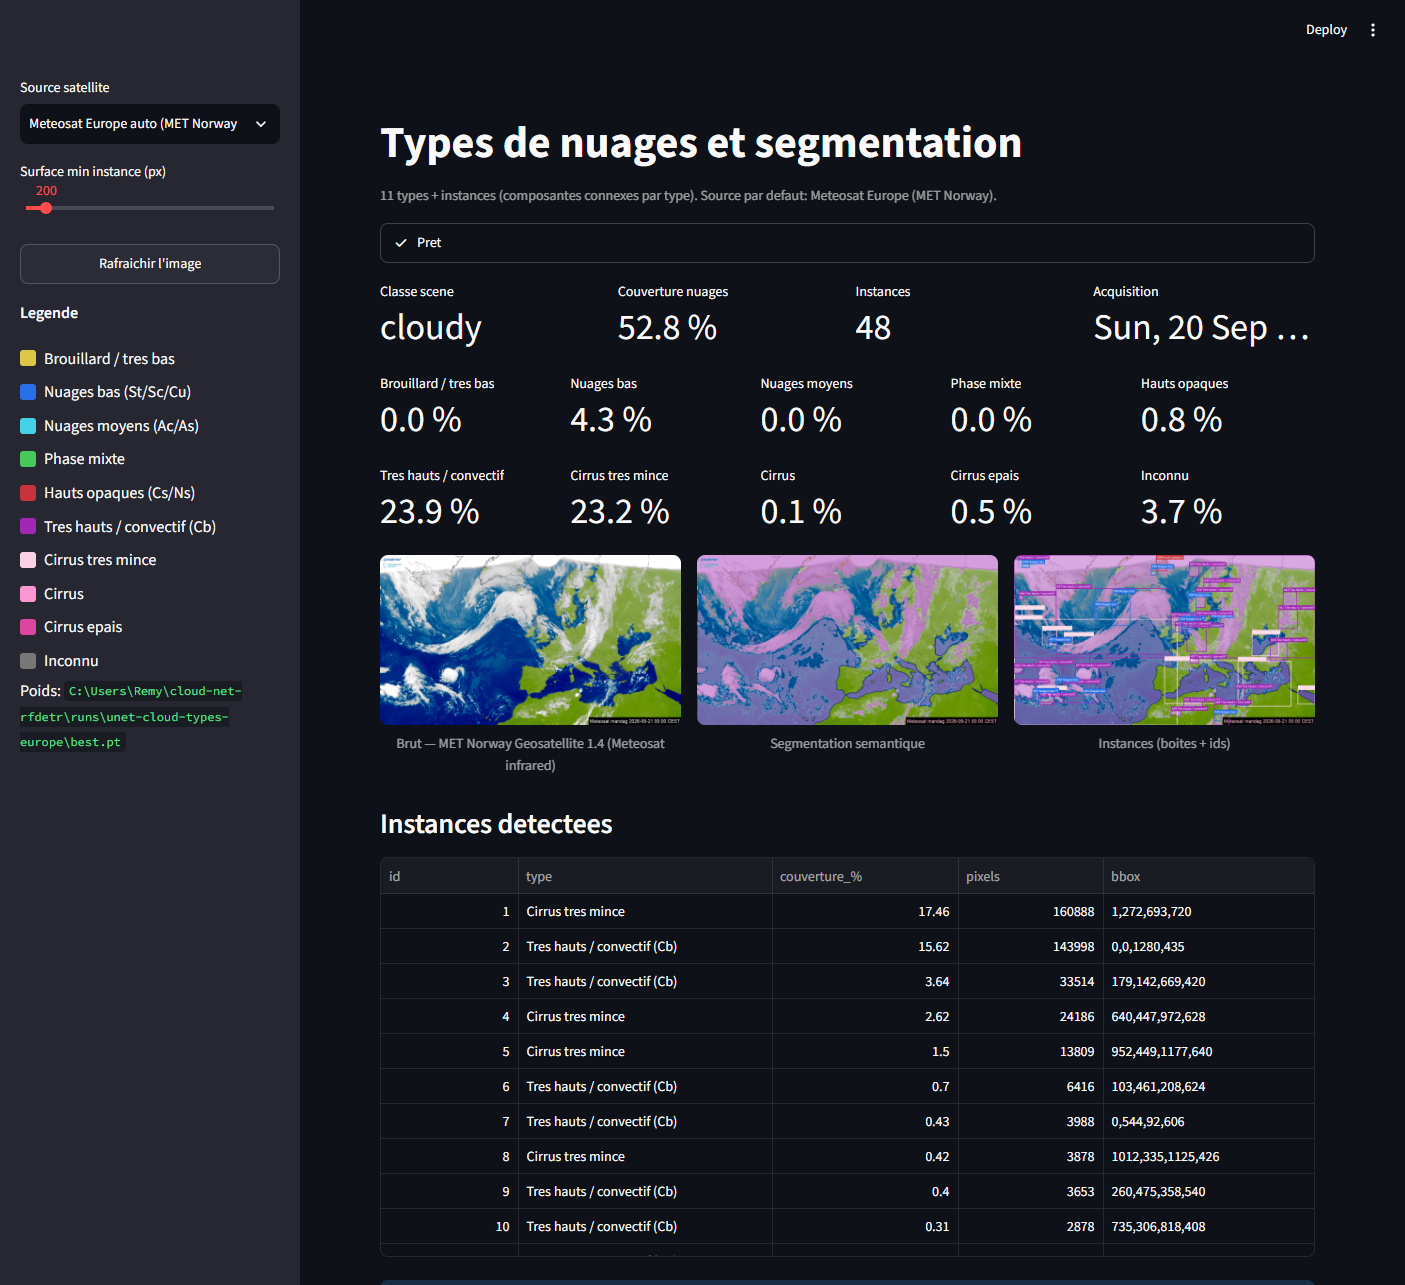
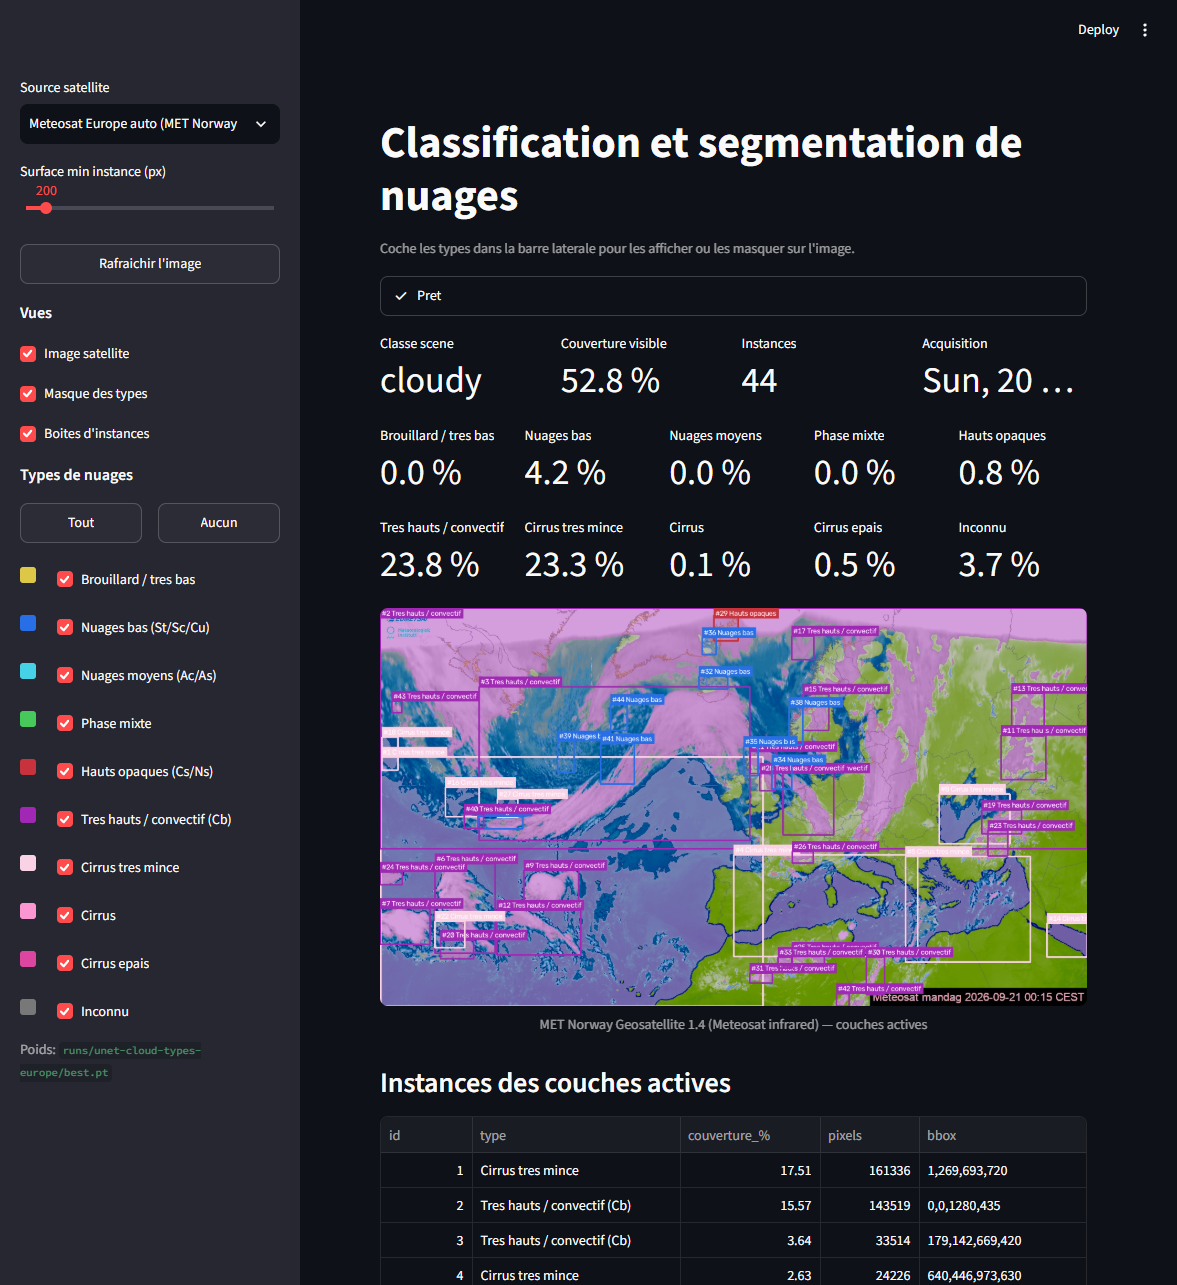
Publier le nouveau nom du projet et retirer le chemin local du README.

diff --git a/app/streamlit_app.py b/app/streamlit_app.py
@@ -1,4 +1,4 @@
-"""Dashboard live: types de nuages + segmentation sémantique."""
+"""Dashboard live: types de nuages + couches activables."""
 
 from __future__ import annotations
 
@@ -13,16 +13,16 @@ import numpy as np
 import streamlit as st
 from PIL import Image
 
-from src.cloud_types import CLASSES, overlay_types
-from src.infer_types import legend_rows, load_type_model, run_type_inference
+from src.cloud_types import CLASSES, class_fractions, cloud_fraction, filter_mask, overlay_types
+from src.infer_types import load_type_model, run_type_inference
 from src.ingest.sources import SOURCES, fetch_latest
-from src.instances import annotate_instances, instances_table
+from src.instances import draw_instance_boxes, instances_table, mask_to_instances
+from src.scene import classify_fraction
 
-st.set_page_config(page_title="Types de nuages live", layout="wide")
+st.set_page_config(page_title="U-Net Cloud Classification and Segmentation RT", layout="wide")
 
 
 def _display_rgb(arr: np.ndarray) -> np.ndarray:
-    """Contraste pour l'affichage (l'inference garde l'image brute)."""
     x = np.asarray(arr, dtype=np.float32)
     earth = x.max(axis=-1) > 8
     if not np.any(earth):
@@ -54,12 +54,38 @@ def cached_fetch(source: str) -> dict:
     }
 
 
+def _hex(rgb: tuple[int, int, int]) -> str:
+    return "#{:02x}{:02x}{:02x}".format(*rgb)
+
+
+def _layer_key(key: str) -> str:
+    return f"layer_{key}"
+
+
+def _init_layers() -> None:
+    for idx, (key, _label, _rgb) in CLASSES.items():
+        if idx != 0 and _layer_key(key) not in st.session_state:
+            st.session_state[_layer_key(key)] = True
+
+
+def _set_all_layers(value: bool) -> None:
+    for idx, (key, _label, _rgb) in CLASSES.items():
+        if idx != 0:
+            st.session_state[_layer_key(key)] = value
+
+
+def _rel_weights(path: str | Path) -> str:
+    raw = Path(path)
+    try:
+        return str(raw.resolve().relative_to(ROOT)).replace("\\", "/")
+    except ValueError:
+        return raw.name
+
+
 def main() -> None:
-    st.title("Types de nuages et segmentation")
-    st.caption(
-        "11 types + instances (composantes connexes par type). "
-        "Source par defaut: Meteosat Europe (MET Norway)."
-    )
+    _init_layers()
+    st.title("Classification et segmentation de nuages")
+    st.caption("Coche les types dans la barre laterale pour les afficher ou les masquer sur l'image.")
 
     source = st.sidebar.selectbox(
         "Source satellite",
@@ -70,72 +96,103 @@ def main() -> None:
     min_area = st.sidebar.slider("Surface min instance (px)", 32, 2000, 200, 32)
     if st.sidebar.button("Rafraichir l'image", use_container_width=True):
         cached_fetch.clear()
+        st.session_state.pop(f"infer_{source}", None)
         st.rerun()
-    st.sidebar.markdown("**Legende**")
-    for hexcol, label in legend_rows():
-        st.sidebar.markdown(
-            f"<div style='display:flex;align-items:center;gap:8px;margin:4px 0'>"
-            f"<span style='width:16px;height:16px;background:{hexcol};display:inline-block;border-radius:3px'></span>"
-            f"<span>{label}</span></div>",
+
+    st.sidebar.markdown("**Vues**")
+    show_base = st.sidebar.checkbox("Image satellite", value=True)
+    show_types = st.sidebar.checkbox("Masque des types", value=True)
+    show_boxes = st.sidebar.checkbox("Boites d'instances", value=True)
+
+    st.sidebar.markdown("**Types de nuages**")
+    b1, b2 = st.sidebar.columns(2)
+    b1.button("Tout", use_container_width=True, on_click=_set_all_layers, args=(True,))
+    b2.button("Aucun", use_container_width=True, on_click=_set_all_layers, args=(False,))
+
+    enabled: set[int] = set()
+    for idx, (key, label, rgb) in CLASSES.items():
+        if idx == 0:
+            continue
+        swatch, box = st.sidebar.columns([1, 8])
+        swatch.markdown(
+            f"<div style='width:16px;height:16px;margin-top:8px;border-radius:3px;background:{_hex(rgb)}'></div>",
             unsafe_allow_html=True,
         )
+        if box.checkbox(label, key=_layer_key(key)):
+            enabled.add(idx)
 
-    status = st.status("Chargement…", expanded=True)
-    try:
-        with status:
-            st.write("Modele")
-            try:
+    cache_key = f"infer_{source}"
+    if cache_key not in st.session_state:
+        try:
+            with st.status("Chargement image et inference…", expanded=True) as status:
+                payload = cached_fetch(source)
                 model, weights, device = get_type_model()
-            except FileNotFoundError as exc:
-                status.update(label="Checkpoint manquant", state="error")
-                st.error(str(exc))
-                return
-            st.sidebar.write(f"Poids: `{weights}`")
+                result = run_type_inference(
+                    Image.fromarray(payload["image"]),
+                    model=model,
+                    device=device,
+                    min_instance_area=32,
+                )
+                st.session_state[cache_key] = {
+                    "image": np.asarray(result["image"]),
+                    "mask": np.asarray(result["mask"]),
+                    "weights": weights,
+                    "payload": payload,
+                }
+                status.update(label="Pret", state="complete")
+        except FileNotFoundError as exc:
+            st.error(str(exc))
+            return
+        except Exception as exc:
+            st.error(f"Echec du flux {source}: {exc}")
+            return
+    bundle = st.session_state[cache_key]
 
-            st.write("Image satellite")
-            payload = cached_fetch(source)
-            image = Image.fromarray(payload["image"])
+    st.sidebar.caption(f"Poids: `{_rel_weights(bundle['weights'])}`")
+    payload = bundle["payload"]
+    shown = _display_rgb(bundle["image"])
+    visible = filter_mask(bundle["mask"], enabled)
+    instances = mask_to_instances(visible, min_area=min_area)
+    frac = cloud_fraction(visible)
+    fr = class_fractions(visible)
 
-            st.write("Segmentation des types")
-            result = run_type_inference(
-                image, model=model, device=device, min_instance_area=min_area
-            )
-        status.update(label="Pret", state="complete")
-    except Exception as exc:
-        status.update(label="Echec", state="error")
-        st.error(f"Echec du flux {source}: {exc}")
-        return
+    canvas = shown.copy()
+    if show_types and enabled:
+        canvas = overlay_types(canvas, visible, opacity=0.45)
+    if show_boxes:
+        canvas = draw_instance_boxes(canvas, instances)
+    if not show_base and (show_types or show_boxes):
+        # fond sombre pour ne garder que les couches
+        dark = np.zeros_like(shown)
+        if show_types and enabled:
+            dark = overlay_types(dark, visible, opacity=0.85)
+        if show_boxes:
+            dark = draw_instance_boxes(dark, instances)
+        canvas = dark
 
     c1, c2, c3, c4 = st.columns(4)
-    c1.metric("Classe scene", result["scene_class"])
-    c2.metric("Couverture nuages", f"{result['cloud_fraction'] * 100:.1f} %")
-    c3.metric("Instances", str(result["n_instances"]))
+    c1.metric("Classe scene", classify_fraction(frac))
+    c2.metric("Couverture visible", f"{frac * 100:.1f} %")
+    c3.metric("Instances", str(len(instances)))
     c4.metric("Acquisition", str(payload["captured_at"])[:25])
 
-    fr = result["fractions"]
     ids = [i for i in CLASSES if i != 0]
     for start in range(0, len(ids), 5):
         chunk = ids[start : start + 5]
         cols = st.columns(len(chunk))
         for col, idx in zip(cols, chunk):
             key, label, _ = CLASSES[idx]
-            col.metric(label.split(" (")[0], f"{fr.get(key, 0.0) * 100:.1f} %")
+            on = idx in enabled
+            col.metric(label.split(" (")[0], f"{fr.get(key, 0.0) * 100:.1f} %" if on else "off")
 
-    shown = _display_rgb(np.asarray(result["image"]))
-    semantic = overlay_types(shown, result["mask"])
-    inst = annotate_instances(shown, result["mask"], result["instances"])
+    st.image(canvas, caption=f"{payload['provider']} — couches actives", width="stretch")
 
-    left, mid, right = st.columns(3)
-    left.image(shown, caption=f"Brut — {payload['provider']}", width="stretch")
-    mid.image(semantic, caption="Segmentation semantique", width="stretch")
-    right.image(inst, caption="Instances (boites + ids)", width="stretch")
-
-    rows = instances_table(result["instances"])
+    rows = instances_table(instances)
     if rows:
-        st.subheader("Instances detectees")
+        st.subheader("Instances des couches actives")
         st.dataframe(rows, width="stretch", hide_index=True)
     else:
-        st.info("Aucune instance au-dessus du seuil de surface.")
+        st.info("Aucune instance pour les couches / seuil choisis.")
 
     if source.startswith("europe") or source.startswith("meteosat"):
         st.info(payload["domain_gap"])

diff --git a/src/instances.py b/src/instances.py
@@ -50,23 +50,29 @@ def mask_to_instances(
     return items[:max_instances]
 
 
-def annotate_instances(rgb: np.ndarray, mask: np.ndarray, instances: list[dict[str, Any]]) -> np.ndarray:
-    """Overlay semantique + boites d'instance numerotees."""
-    from src.cloud_types import overlay_types
-
-    canvas = overlay_types(rgb, mask, opacity=0.40)
+def draw_instance_boxes(canvas: np.ndarray, instances: list[dict[str, Any]]) -> np.ndarray:
+    """Dessine les boites d'instance sur une image RGB deja composee."""
+    out = np.asarray(canvas).copy()
     colors = palette()
     font = cv2.FONT_HERSHEY_SIMPLEX
     for item in instances:
         x1, y1, x2, y2 = item["bbox"]
         color = tuple(int(c) for c in colors[item["class_id"]])
-        cv2.rectangle(canvas, (x1, y1), (x2, y2), color, 2)
+        cv2.rectangle(out, (x1, y1), (x2, y2), color, 2)
         caption = f"#{item['id']} {item['label'].split(' (')[0]}"
         (tw, th), _ = cv2.getTextSize(caption, font, 0.45, 1)
         ty = max(0, y1 - th - 6)
-        cv2.rectangle(canvas, (x1, ty), (x1 + tw + 6, ty + th + 6), color, -1)
-        cv2.putText(canvas, caption, (x1 + 3, ty + th + 2), font, 0.45, (255, 255, 255), 1, cv2.LINE_AA)
-    return canvas
+        cv2.rectangle(out, (x1, ty), (x1 + tw + 6, ty + th + 6), color, -1)
+        cv2.putText(out, caption, (x1 + 3, ty + th + 2), font, 0.45, (255, 255, 255), 1, cv2.LINE_AA)
+    return out
+
+
+def annotate_instances(rgb: np.ndarray, mask: np.ndarray, instances: list[dict[str, Any]]) -> np.ndarray:
+    """Overlay semantique + boites d'instance numerotees."""
+    from src.cloud_types import overlay_types
+
+    canvas = overlay_types(rgb, mask, opacity=0.40)
+    return draw_instance_boxes(canvas, instances)
 
 
 def instances_table(instances: list[dict[str, Any]]) -> list[dict[str, Any]]:

diff --git a/src/cloud_types.py b/src/cloud_types.py
@@ -142,6 +142,16 @@ def cloud_fraction(mask: np.ndarray) -> float:
     return float(sum(fr[CLASSES[i][0]] for i in CLOUD_IDS))
 
 
+def filter_mask(mask: np.ndarray, enabled_ids: set[int] | None) -> np.ndarray:
+    """Masque les types desactives (pixels -> 0 / clair pour l'affichage)."""
+    out = np.asarray(mask).copy()
+    if enabled_ids is None:
+        return out
+    keep = np.isin(out, list(enabled_ids)) | (out == IGNORE)
+    out[~keep] = 0
+    return out
+
+
 def overlay_types(rgb: np.ndarray, mask: np.ndarray, opacity: float = 0.45) -> np.ndarray:
     base = np.asarray(rgb)
     if base.ndim == 2:

diff --git a/src/paths.py b/src/paths.py
@@ -12,7 +12,7 @@ EUROPE_SEG_DIR = DATA_DIR / "europe_seg"
 RUNS_DIR = ROOT / "runs"
 WEIGHTS_DIR = ROOT / "weights"
 KAGGLE_TOKEN = Path.home() / ".kaggle" / "kaggle.json"
-USER_AGENT = "cloud-net-rfdetr/1.0 (educational cloud detection; local project)"
+USER_AGENT = "unet-cloud-classif-seg-rt/1.0 (educational cloud detection)"
 
 
 def ensure_dirs() -> Path:

diff --git a/README.md b/README.md
@@ -1,6 +1,6 @@
-# cloud-net-rfdetr
+# U-Net Cloud Classification and Segmentation RT
 
-Types de nuages + segmentation sémantique + instances, en quasi temps réel, sur **Meteosat Europe** (et GOES-19).
+Classification et segmentation de types de nuages en quasi temps réel, sur **Meteosat Europe** (et GOES-19).
 
 Le live utilise un **U-Net** entraîné sur les produits officiels **GOES-19** (truecolor CMI + phase ACTP + épaisseur COD + hauteur ACHA), puis fine-tuné sur **Meteosat Europe** ([MET Norway](https://api.met.no/weatherapi/geosatellite/1.4/documentation)).
 
@@ -42,7 +42,8 @@ Un premier essai RF-DETR-Seg sur 38/95-Cloud (binaire, instances Landsat) ne se 
 ## Installation
 
 ```powershell
-cd C:\Users\Remy\cloud-net-rfdetr
+git clone https://github.com/Thorfy/unet-cloud-classification-segmentation-rt.git
+cd unet-cloud-classification-segmentation-rt
 python -m venv .venv
 .\.venv\Scripts\Activate.ps1
 pip install -r requirements.txt
